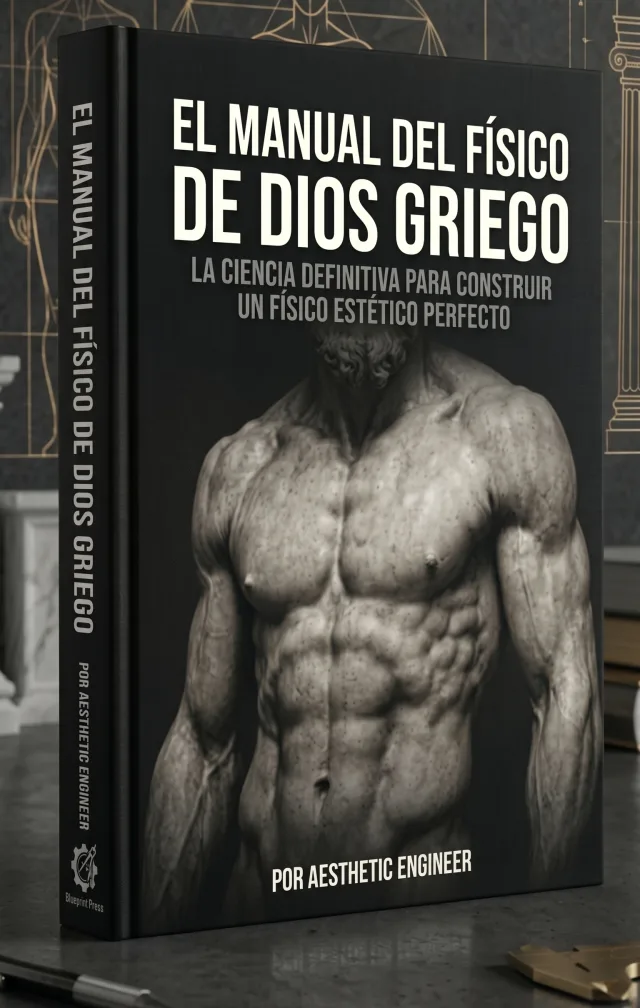
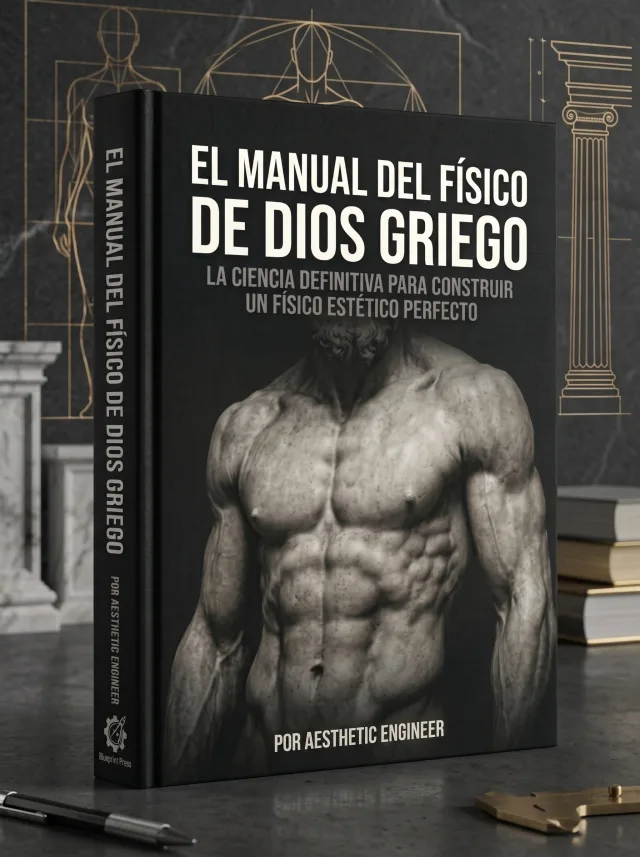
Use the new 3:4 Spanish mockup, framed like the English one
The new source (1792x2400) matches the English mockup, so the carousel slide and the
'Lo que hay adentro' cover now use the same crop as English instead of the blurred-sides
workaround. Bumped ?v= on both so cached copies refresh.

diff --git a/es/index.html b/es/index.html
@@ -34,7 +34,7 @@
 
   <link rel="preload" href="/assets/fonts/playfair-700.woff2" as="font" type="font/woff2" crossorigin />
   <link rel="preload" href="/assets/fonts/inter-400.woff2" as="font" type="font/woff2" crossorigin />
-  <link rel="preload" as="image" href="/assets/carousel/mockup-es.webp?v=2" imagesrcset="/assets/carousel/mockup-es-720.webp?v=2 720w, /assets/carousel/mockup-es.webp?v=2 1080w" imagesizes="(min-width: 1024px) 540px, (min-width: 480px) 448px, calc(100vw - 32px)" fetchpriority="high" />
+  <link rel="preload" as="image" href="/assets/carousel/mockup-es.webp?v=3" imagesrcset="/assets/carousel/mockup-es-720.webp?v=3 720w, /assets/carousel/mockup-es.webp?v=3 1080w" imagesizes="(min-width: 1024px) 540px, (min-width: 480px) 448px, calc(100vw - 32px)" fetchpriority="high" />
 
   <link rel="prefetch" href="/es/go/blueprint/" as="document" />
   <link rel="preconnect" href="https://pay.hotmart.com" crossorigin />
@@ -213,7 +213,7 @@
       <div class="min-w-0 lg:sticky lg:top-6 w-full max-w-md mx-auto lg:max-w-none">
         <div class="relative" role="region" aria-roledescription="carousel" aria-label="Vista previa del producto">
       <div class="carousel rounded-3xl border border-line bg-card" data-carousel tabindex="0">
-        <div class="slide-c" role="group" aria-roledescription="slide" aria-label="1 de 7"><img src="/assets/carousel/mockup-es.webp?v=2" srcset="/assets/carousel/mockup-es-720.webp?v=2 720w, /assets/carousel/mockup-es.webp?v=2 1080w" sizes="(min-width: 1024px) 540px, (min-width: 480px) 448px, calc(100vw - 32px)" alt="El Manual del Físico de Dios Griego, portada de la guía en PDF" width="1080" height="1350"
+        <div class="slide-c" role="group" aria-roledescription="slide" aria-label="1 de 7"><img src="/assets/carousel/mockup-es.webp?v=3" srcset="/assets/carousel/mockup-es-720.webp?v=3 720w, /assets/carousel/mockup-es.webp?v=3 1080w" sizes="(min-width: 1024px) 540px, (min-width: 480px) 448px, calc(100vw - 32px)" alt="El Manual del Físico de Dios Griego, portada de la guía en PDF" width="1080" height="1350"
         fetchpriority="high" decoding="async" class="absolute inset-0 w-full h-full object-cover" /></div>
         <div class="slide-c" role="group" aria-roledescription="slide" aria-label="2 de 7"><div class="absolute inset-0 p-3 sm:p-4 flex flex-col">
         <p class="text-center text-[11px] sm:text-xs font-semibold tracking-widest uppercase text-muted">El autor, el primero en aplicar el sistema</p>
@@ -505,7 +505,7 @@
       <div class="lg:col-span-2 reveal lg:sticky lg:top-10">
         <div class="relative mx-auto max-w-[16rem] sm:max-w-xs">
           <div class="absolute -inset-3 bg-gradient-to-b from-cream/10 to-transparent rounded-3xl blur-xl" aria-hidden="true"></div>
-          <img src="/assets/aesthetic-blueprint-mockup-es.webp" alt="Portada del Manual del Físico de Dios Griego, guía en PDF" width="640" height="1008"
+          <img src="/assets/aesthetic-blueprint-mockup-es.webp?v=2" alt="Portada del Manual del Físico de Dios Griego, guía en PDF" width="640" height="857"
                loading="lazy" decoding="async" class="relative w-full rounded-2xl border border-line bg-card" />
         </div>
         <p class="mt-5 text-center text-muted">121 páginas. Cero relleno.<br /><span class="text-cream font-semibold">Un sistema completo, no una lista de tips.</span></p>

diff --git a/assets/README.md b/assets/README.md
@@ -11,7 +11,8 @@ The page references small WebP derivatives, not the original photos:
 | `og-image.jpeg` | `originals/og-image.jpeg` | fixed 1200×630, the Open Graph card size |
 | `before-1.webp` / `before-2.webp` / `before-3.webp` | `originals/before 1.jpeg` / `before 2.jpeg` / `before 3.jpeg` | 356px CSS (max, tablet width) × 2 → 720px wide |
 | `after-1.webp` / `after-2.webp` / `after-3.webp` | `originals/after 1.JPG` / `after 2.png` / `after 3.png` | same as above → 720×960 (3:4, the slideshow frame), referenced as `?v=2` |
-| `carousel/mockup-en.webp`, `carousel/mockup-es.webp` (1080x1350) and `-720` versions | `aesthetic blueprint mockup.png` cropped to 4:5; `originals/aesthetic-blueprint-mockup-es.jpeg` | hero carousel slide 1, served with `srcset` (720w / 1080w). The Spanish source is 9:16 with the book filling its width, so a plain 4:5 crop zooms into the cover: instead the photo (y 180-2700) sits centred at full height and the sides are a blurred, darkened copy of the same scene feathered into it. Referenced as `?v=2` |
+| `aesthetic-blueprint-mockup-es.webp` (640x857) | `originals/el manual del físico de dios griego mockup es.jpeg` | the Spanish "Lo que hay adentro" cover, same framing as the English `aesthetic-blueprint-mockup.webp`; referenced as `?v=2` |
+| `carousel/mockup-en.webp`, `carousel/mockup-es.webp` (1080x1350) and `-720` versions | `aesthetic blueprint mockup.png` (1790x2400) and `originals/el manual del físico de dios griego mockup es.jpeg` (1792x2400), both cropped to 4:5 the same way (full width, ~80px off the top) | hero carousel slide 1, served with `srcset` (720w / 1080w). Spanish referenced as `?v=3` |
 | `carousel/author-{before,after}-540.webp` (540x1333) and `-360` (360x889) | `originals/before 2.jpeg` crop 277,357 651x1608; `originals/after 2.png` crop 221,440 536x1324 | the author slide in the hero carousel. Each photo sits in a tall frame (~0.40 wide-to-high, up to 540x1335 device px on a 3x phone), so the crop already matches that shape and nothing gets upscaled. Served with `srcset` (360w / 540w) |
 | `evidence/samuel-{before,after}.webp` (front) and `-2` (back), 3:4 | `src/content/evidence/originals/samuel-*.jpeg` (not in git) | Samuel's card in Results, two photos per side in the paired slideshow. Crops (x, y, w, h in original px): before 0,320,656,875 · after 61,496,528,704 · before-2 112,538,398,531 (excludes his head in the foreground) · after-2 66,608,504,672 (excludes the person at the left edge and the screenshot UI). Light and colour untouched on purpose. |
 | `evidence/samuel-{before,after}-tall.webp` and `-360` | same originals | the last hero carousel slide (tall frame, ~0.405). Crops: before 135,0,518,1280 · after 87,136,476,1176 (drops the black letterbox bars) |
